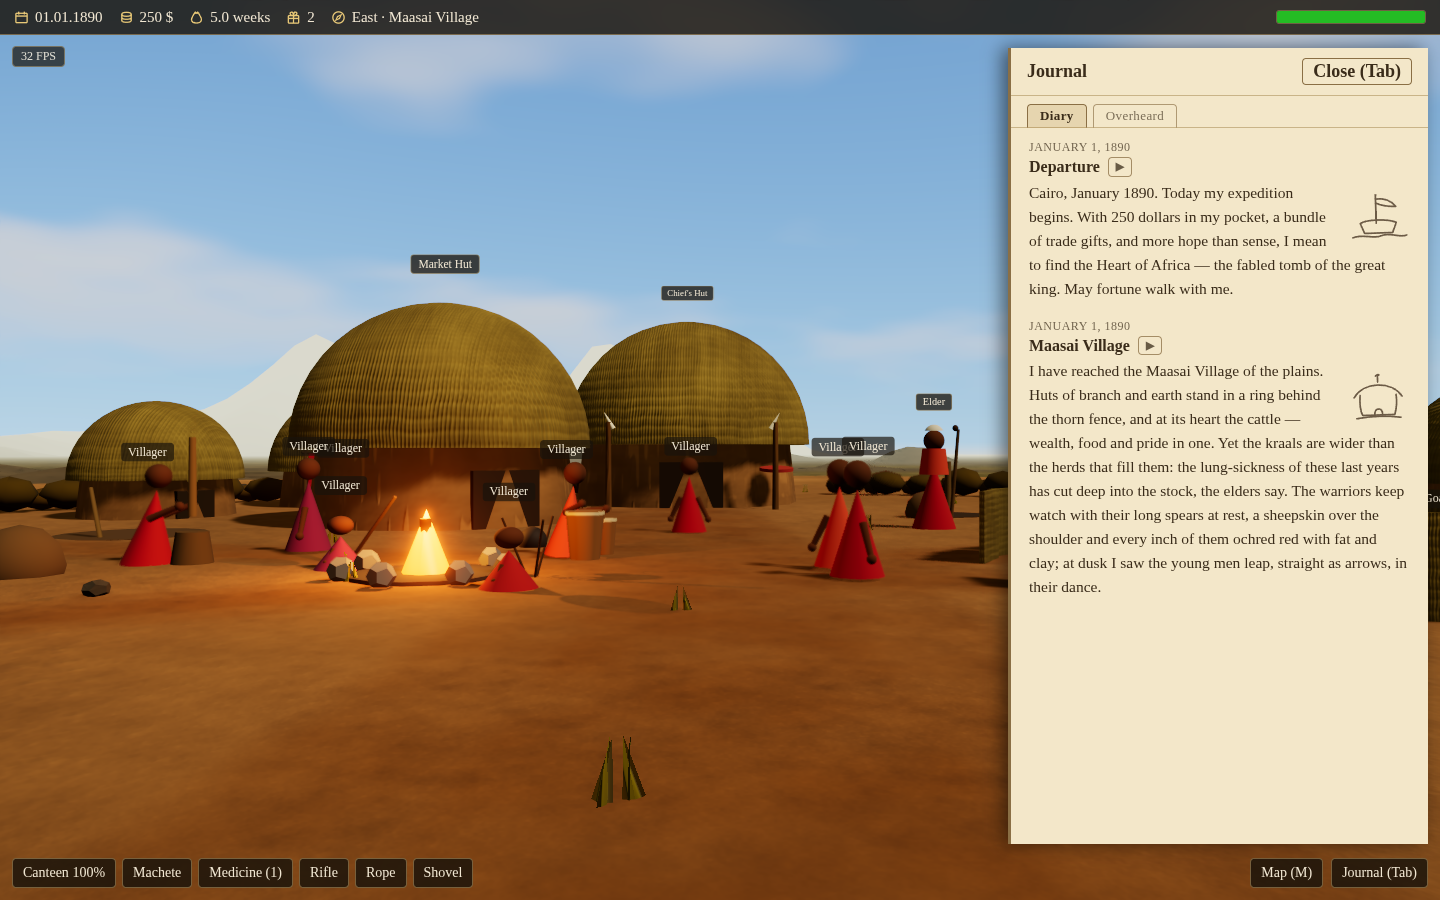
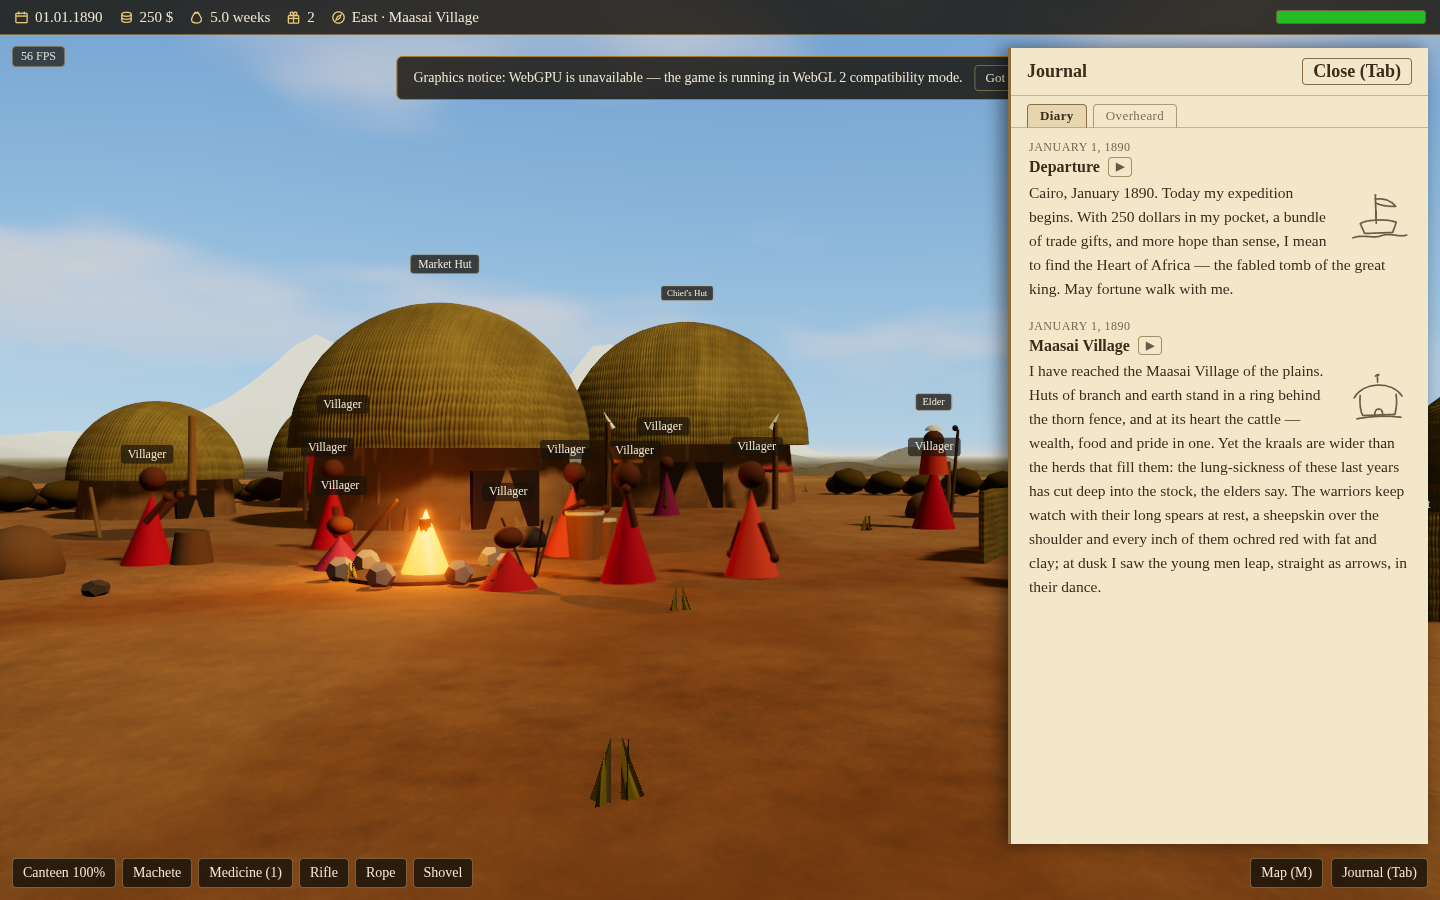
Record what the Ctrl layer must not say, and the frames that show it
The evidence chain still claimed a pitched camp names itself under Ctrl.
It now states the two rules that replaced it and the declutter beside
them, each with the test that holds it.

The two acceptance frames are re-cut from the fixed state: the village
one carried the defect itself — two boxes fused into "Villager llager".

diff --git a/docs/acceptance-evidence.md b/docs/acceptance-evidence.md
@@ -330,7 +330,18 @@ reach the raw candidate set (`scripts/verify/enrichments.mjs`), and
 every inhabitant figure the settlement draws carries its mark, is
 offered, and is still named where it now stands after it has walked
 (`scripts/verify/polish.mjs`). The roster's usable objects are exercised
-too: a camp pitched where the traveller stands names itself under Ctrl
+too, and with them what the layer must NOT say (point 628): a camp
+pitched where the traveller stands reaches the layer as a candidate yet
+carries exactly ONE name in the whole scene — the permanent one it draws
+itself — and the canoe the traveller rides or drags is offered and never
+named, since the layer answers what he is looking AT
+(`scripts/verify/enrichments.mjs`; the rules themselves, over every kind,
+in `src/systems/actorLabels.test.ts` and
+`src/scenes/actorLabelRoster.test.ts`). And no two labels print into each
+other: the further of two boxes that would overlap rises a line and, with
+no row left, yields entirely (`src/systems/actorLabels.test.ts`,
+`src/scenes/ActorLabels.test.tsx`), which is asserted live on the
+rectangles the browser really laid out — no pair of them overlaps
 (`scripts/verify/enrichments.mjs`).
 
 ## 10. Goal scaffolding.
